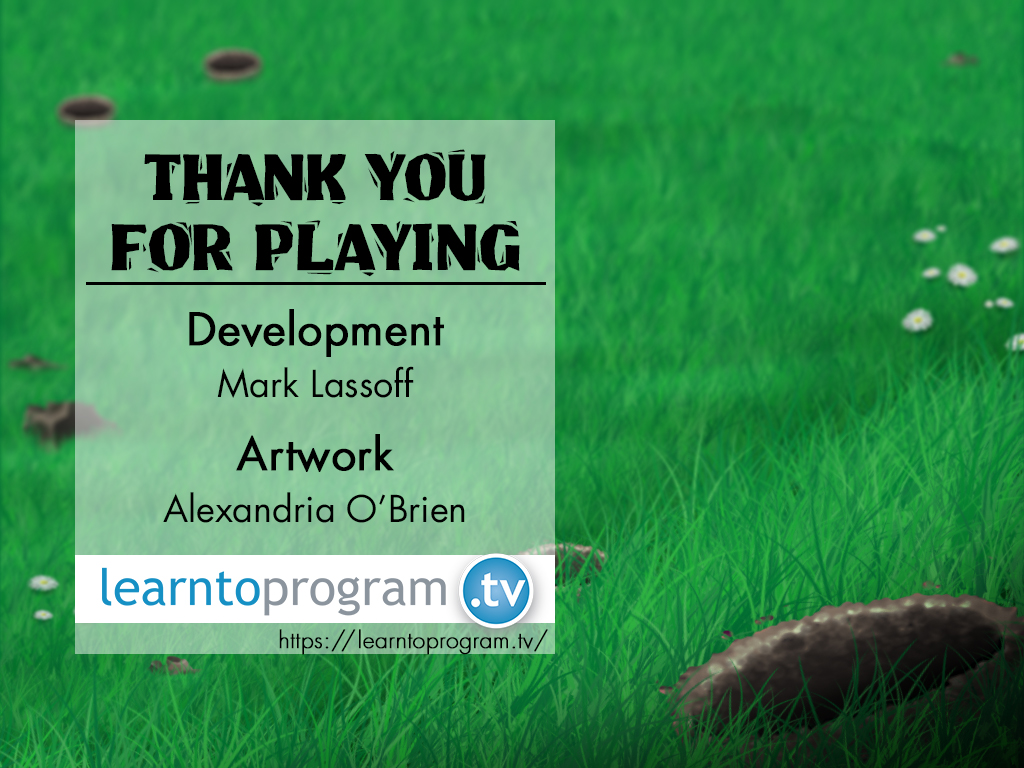
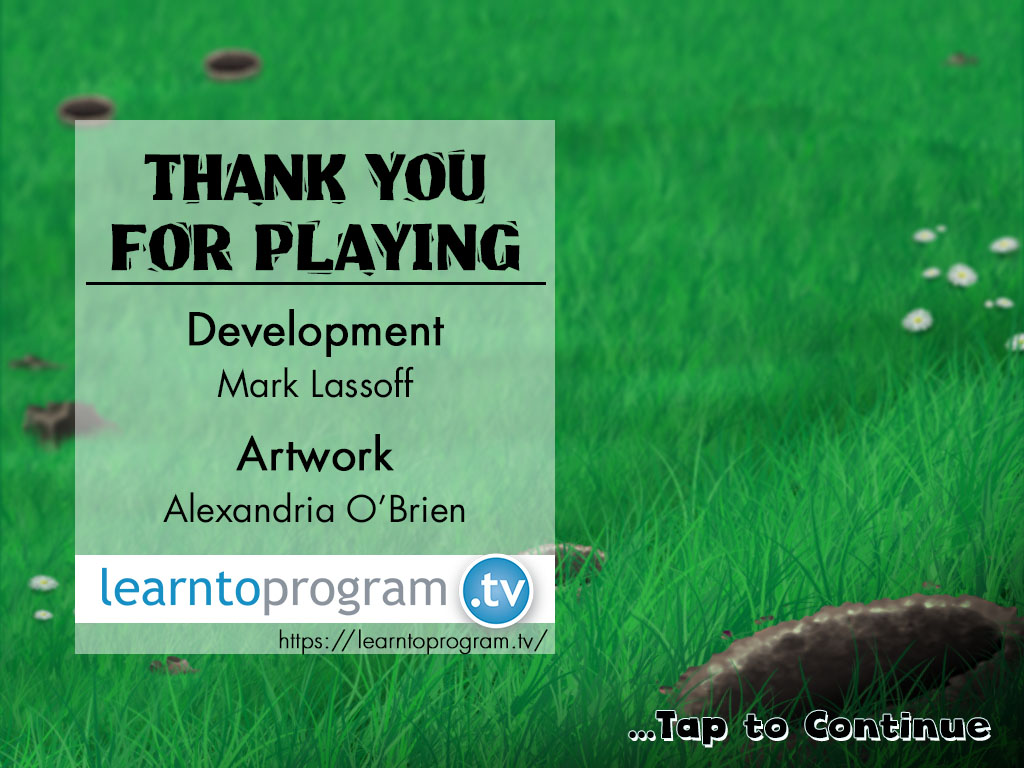
Changed Load Screens and created level grid
Level Grid created with randomization.
Tap to continue added to Load Screens.

Changed region(s): [[0.5938, 0.9062, 0.9688, 0.9688]]

diff --git a/www/game.js b/www/game.js
@@ -19,6 +19,7 @@ function preloadAssets()
     display.queue.installPlugin(createjs.Sound);
     display.queue.on("complete" , assetsLoaded, this);
     display.queue.loadManifest([
+        {id: "ls_title", src:"assets/loadingScreens/ls_title.jpg"},
         {id: "ls_credit", src:"assets/loadingScreens/ls_credit.jpg"},
         {id: "ls_gameOver", src:"assets/loadingScreens/ls_gameOver.jpg"},
         {id: "ls_level1", src:"assets/loadingScreens/ls_level1.jpg"},
@@ -41,7 +42,7 @@ function preloadAssets()
 function assetsLoaded()
 {
     //Display the Level1 Screen
-    var background = display.queue.getResult("ls_credit");
+    var background = display.queue.getResult("ls_title");
     display.stage.addChild(new createjs.Bitmap(background));
     display.stage.update();
     
@@ -70,7 +71,6 @@ function loadLevel(level)
     
     //Play Level Music
     var music = "snd_level" + level + "Background";
-    console.log(music);
     createjs.Sound.play(music);
     
     //Wait for click to start play
@@ -80,8 +80,56 @@ function loadLevel(level)
 
 function startLevel(level)
 {
-    alert(level);   
+    //Remove Level Screen
+    display.stage.removeAllChildren();
+    
+    var levelGrid = createLevelGrid(constant.COLUMNS, constant.ROWS);
+    console.log(levelGrid);
+    //displayLevelGrid(levelGrid);
 }
+
+function displayLevelGrid(levelGrid)
+{
+       
+}
+
+function createLevelGrid(colsNumber, rowsNumber)
+{
+    var levelGrid= new Array();
+    
+    //Each Row   
+    for(var x=0; x < rowsNumber; x++)
+       {
+           var row = new Array();
+           //Each column in that row 
+           for(var y = 0; y < colsNumber; y++)
+            {
+                var tileType = Math.floor((Math.random() * 4) + 0);
+                
+                //Associate Graphic with numerical tileType
+                if(tileType ==0)
+                {
+                    tileType = "bt_grass";    
+                } else if (tileType ==1)
+                {
+                    tileType = "bt_hole";   
+                } else if (tileType ==2)
+                {
+                    tileType = "bt_flowerRock";
+                } else if (tileType ==3)
+                {
+                    tileType = "bt_rock";  
+                } else
+                {
+                    tileType = "bt_flowers";   
+                }
+                row[y] = tileType;
+            }
+            levelGrid[x] = row;
+       }
+    return levelGrid;
+}
+
 
 function setupCanvas()
 {

diff --git a/www/constants.js b/www/constants.js
@@ -3,4 +3,5 @@ constant.WIDTH=1024;
 constant.HEIGHT=768;
 constant.TILEWIDTH= 170;    
 constant.TILEHEIGHT= 168;
-
+constant.COLUMNS = 6;
+constant.ROWS = 5;
